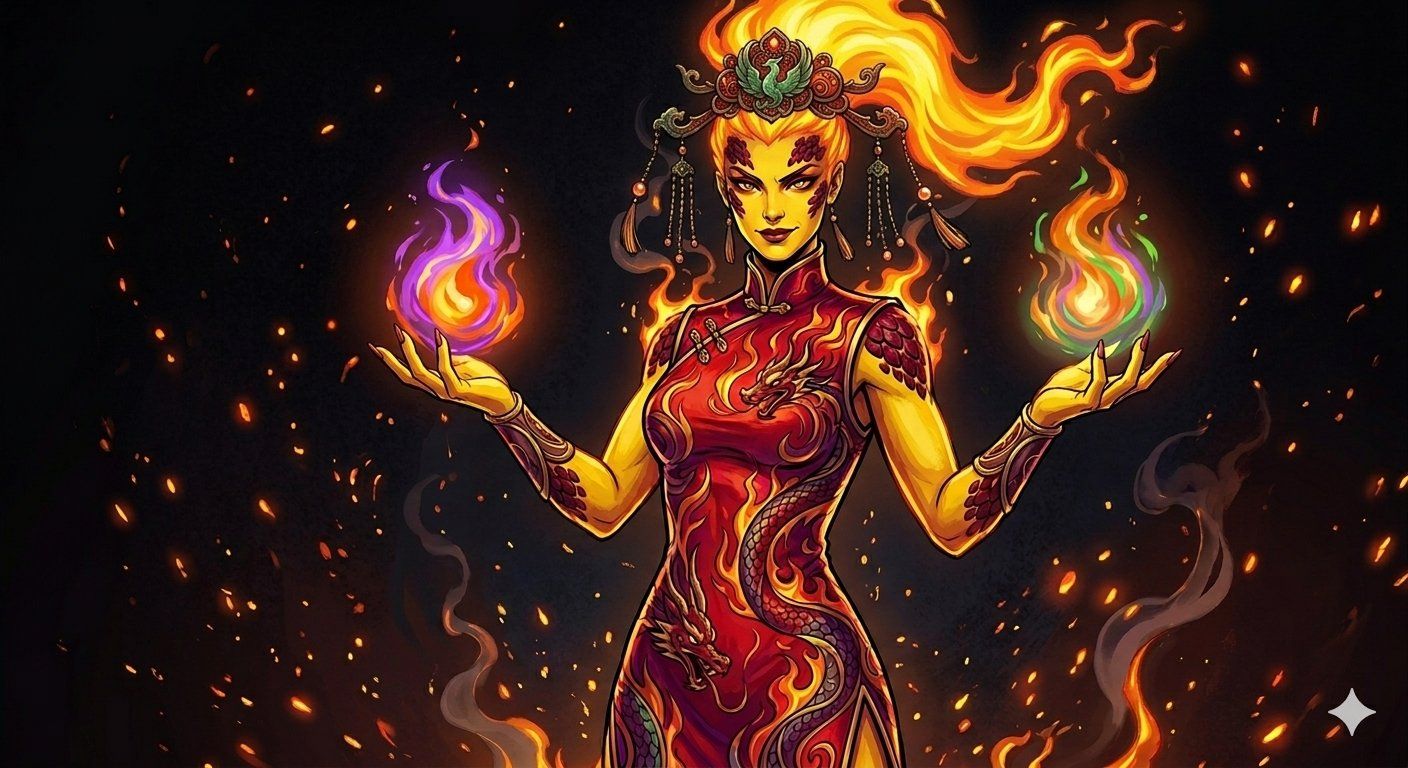
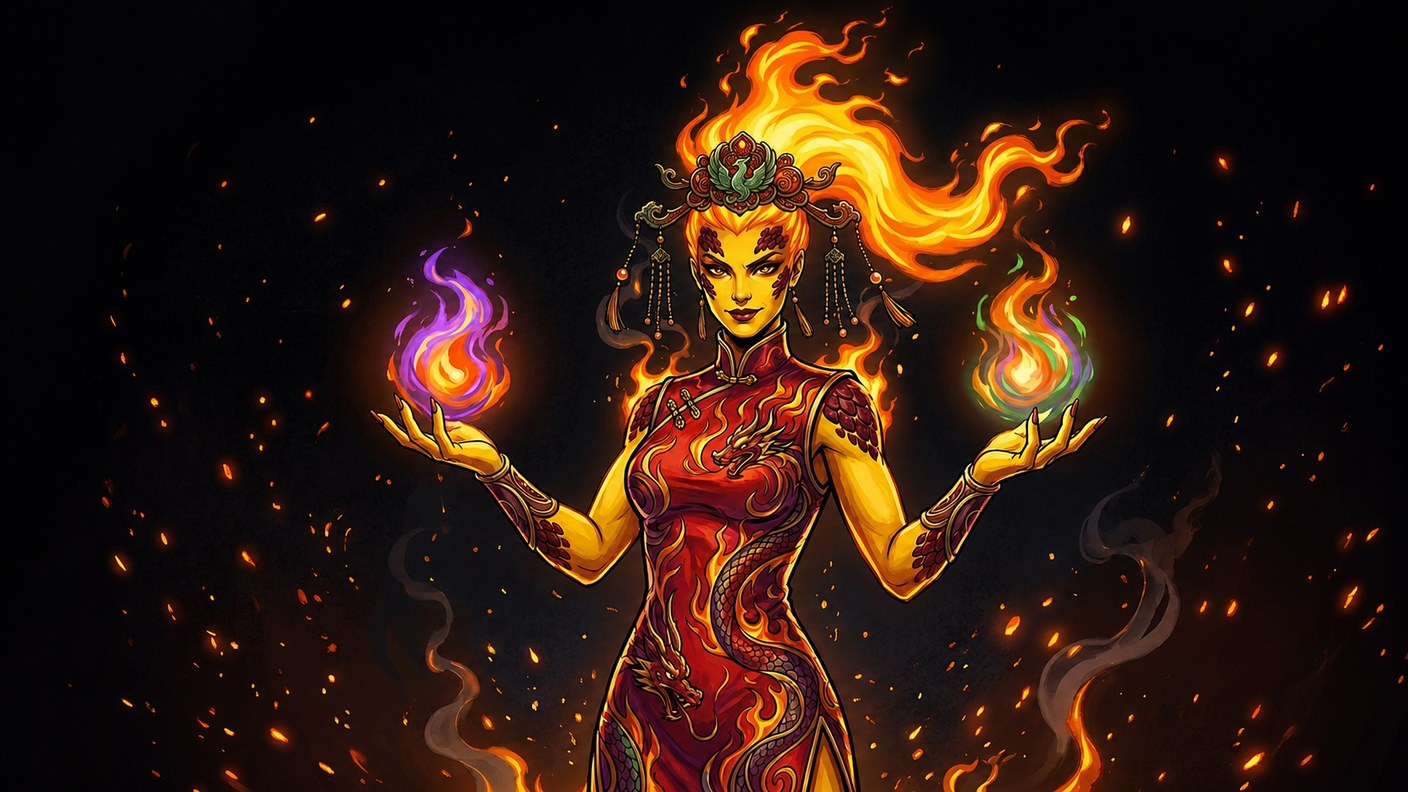
art(gods): fix Cilia pledge-card image (full hair, optimized jpg)
Josh's updated Cilia bust (the old one cut her flaming hair off at the top
of frame) had landed as an unoptimized 2.1 MB assets/gods/cilia.png while
index.html:765 still referenced the deleted assets/gods/cilia.jpg -> broken
pledge card. Convert the new master to assets/gods/cilia.jpg (1408x792,
204 KB, in family with the other three gods) and drop the heavy PNG. No
index.html change needed (line 765 already points at cilia.jpg).

Also park the new full-body master (art/gods/cilia full body.png) as the
source for a future in-game Cilia sprite (Artist-lane task, pipeline TBD).

diff --git a/docs/TASKS.md b/docs/TASKS.md
@@ -201,11 +201,15 @@ the PM, Engineer/CTO, and Artist lives here with a live status. When there's no 
 
 - ◻️ 🎨 **No-pause level-up sidebar — painted-frame / icon pass** (↳ from ENG, 2026-06-11 · ref `art/reference images/new level up screen (no pause).png`) — the sidebar shipped functional with the existing CSS ornate frame (`.lvl-portrait`) + the existing `assets/portraits/cilia.jpg` portrait. To reach the mockup's fidelity: a **painted panel frame** (the ornate gilt border around the card list, not just the portrait), **per-card-row icons** (the draft uses emoji glyphs today — `CARD_ICON_ART`-style overrides), and **rarity filigree**. Cards are now horizontal rows (icon-ring · rarity · name · desc · Favor chip), stacked vertically in a left-docked panel. Engineer wires assets per manifest once sliced. *(Overlaps the existing "Level-up screen art-direction pass" / `specs/levelup-screen.md` — fold together; that spec predates the no-pause reflow, so re-baseline it against the new row layout.)*
 
+- ◻️ 🎨 **Cilia in-game sprite — from the new full-body master** (↳ from Josh, 2026-06-12) — source master parked at `art/gods/cilia full body.png` (1535×1024, full standing figure, transparent-ready). Josh: "will be used as an in-game sprite of Cilia." **Pipeline decision pending** before slicing: what *kind* of in-game presence is she — a single static NPC at the shrine (one cutout, feet-anchored, `world.cilia`-style key), or a directional/animated avatar (needs a turnaround, not one pose)? Confirm the use with Josh/PM, then bg-remove → size to the established char/world scale → `ART_MANIFEST` handoff to Engineer. Don't slice until the use is settled (one pose vs. turnaround changes everything).
+
 - *(eye-glow look **decided & handed to Engineer** 2026-06-11: eyes-only, subtle, yellow→red; full-body tint tried & rejected. See the Engineer-lane handoff + Done.)*
 
 ---
 
 ## ✅ Done (recent track record — prune to git history as it grows)
+
+- **2026-06-12 — Cilia pledge-card art fixed + optimized** (Artist, ↳ from Josh) — Josh's updated bust (full flaming hair no longer cut off at the top of frame) had landed as an unoptimized 2.1 MB `assets/gods/cilia.png` while `index.html:765` still pointed at the deleted `assets/gods/cilia.jpg` → broken pledge card. Converted the new master → **`assets/gods/cilia.jpg`** (1408×792, 204 KB — in family with bhumi 170 / boreas 200 / ikras 169 KB), removed the 2.1 MB PNG. **No `index.html` change** (line 765 already references `cilia.jpg`). QA'd: full hair contained, no flatten/banding, dark bg intact, crops clean to the 130px `top center` card strip.
 
[1 lines of base64/hex data omitted]
 - **2026-06-11 — World props wired: favor coin + treasure chests** (Engineer, ↳ from ART) — 3 manifest entries (`world.favorcoin`/`chest-closed`/`chest-open`) auto-load via `gInitArt`; `gDrawFavorOrbs` draws the coin sprite (gold pickup glow + gentle bob kept, procedural disc as fallback); both chest draw sites (village `~15159` + wolf-camp `~15204`) route through a shared `_drawChestSprite()` helper (open art once `looted`, else closed; feet-anchored; guarded camp chest dims via reduced alpha; procedural box fallback retained). Pure render-only (gated `inWilderness`, no logic/state) → Sim/MP-safe. `node --check` clean + greps confirm wiring. *Sizing knobs: `FAVORCOIN_PX 22`, `CHEST_PX 30`. **Verify in-game with a hard-refresh** (browser eyeball pending) — reopen if coin/chest scale or anchor reads off.*